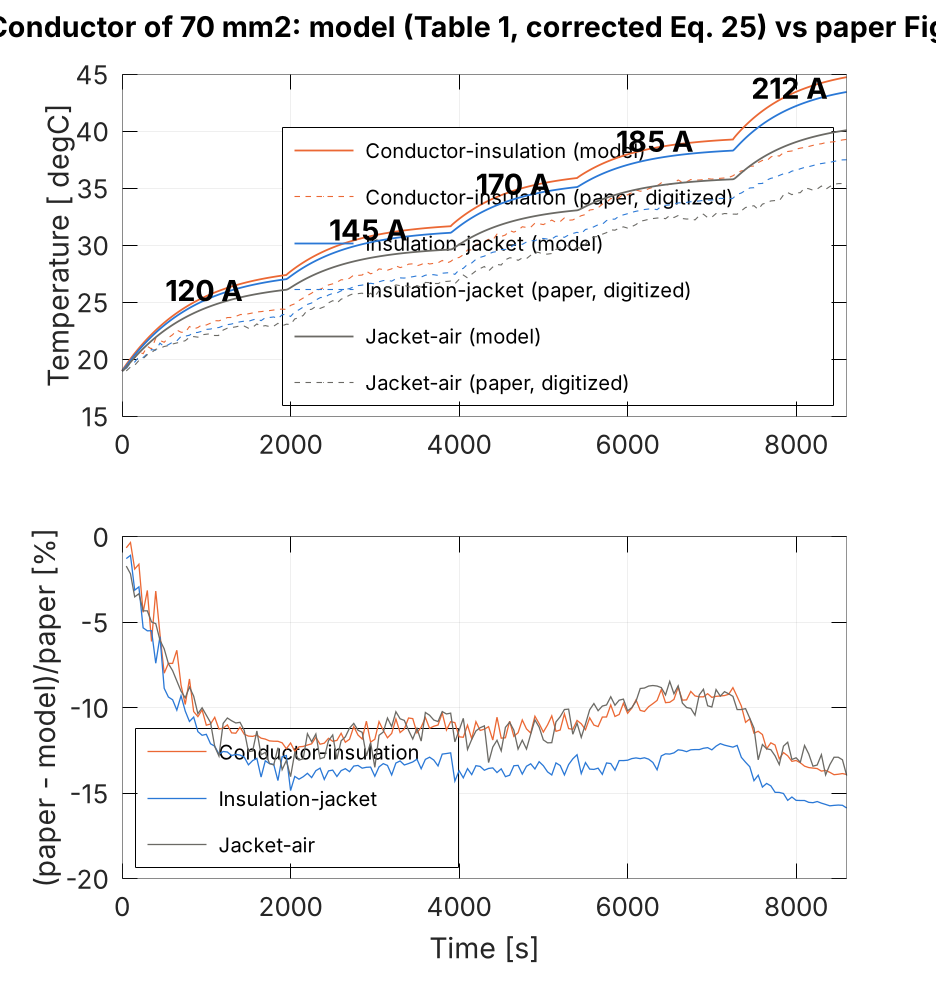
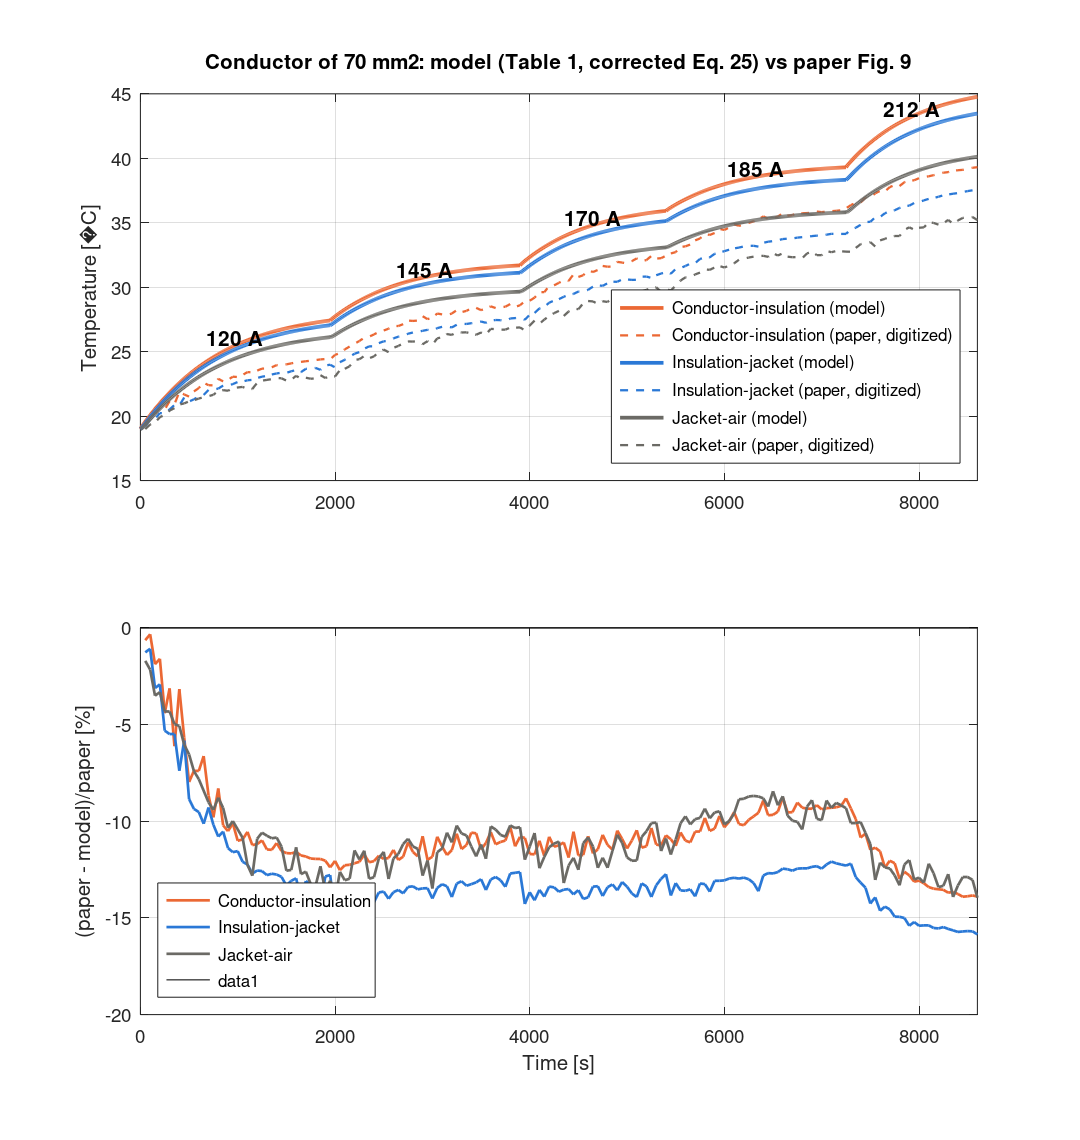
MATLAB: render figures with Octave's Qt toolkit when available
ct_figure/ct_save_fig/ct_lbl use the Qt renderer (e.g. under xvfb-run)
and fall back to gnuplot; README notes how to run headless.

Claude-Session: https://claude.ai/code/session_01NvewmNvfB2gMbfc86z3ryK

diff --git a/matlab/util/ct_save_fig.m b/matlab/util/ct_save_fig.m
@@ -1,12 +1,12 @@
 function ct_save_fig(fig, path)
-%CT_SAVE_FIG  Save a figure as PNG in MATLAB and in Octave (size taken from the figure, inches).
+%CT_SAVE_FIG  Save a figure as PNG in MATLAB and in Octave (Qt or gnuplot toolkit).
 d = fileparts(path);
 if ~isempty(d) && ~exist(d, 'dir'), mkdir(d); end
-if ct_is_octave()
+if ct_gnuplot()
     pos = get(fig, 'position');                     % inches (ct_figure)
     print(fig, '-dpngcairo', sprintf('-S%d,%d', round(130 * pos(3)), round(130 * pos(4))), path);
 else
-    print(fig, '-dpng', '-r200', path);
+    print(fig, '-dpng', '-r150', path);
 end
 close(fig);
 end

diff --git a/matlab/util/ct_figure.m b/matlab/util/ct_figure.m
@@ -1,7 +1,9 @@
 function f = ct_figure(w, h)
-%CT_FIGURE  Invisible figure of w x h inches (headless-safe).
+%CT_FIGURE  Invisible figure of w x h inches (headless-safe).  In Octave the Qt toolkit is used
+%   when available (e.g. under xvfb-run), otherwise gnuplot.
 if ct_is_octave()
-    try, graphics_toolkit('gnuplot'); catch, end %#ok<CTCH>
+    tk = available_graphics_toolkits();
+    if any(strcmp(tk, 'qt')), graphics_toolkit('qt'); else, graphics_toolkit('gnuplot'); end
 end
 f = figure('visible', 'off', 'units', 'inches', 'position', [0 0 w h], 'paperpositionmode', 'auto', 'color', 'w');
 end

diff --git a/matlab/util/ct_lbl.m b/matlab/util/ct_lbl.m
@@ -1,6 +1,6 @@
 function s = ct_lbl(s)
-%CT_LBL  Axis/legend text: the degree sign is replaced in Octave (gnuplot cannot always render it).
-if ct_is_octave()
+%CT_LBL  Axis/legend text: the degree sign is replaced when Octave plots with gnuplot.
+if ct_gnuplot()
     s = strrep(s, char(176), ' deg');
     s = strrep(s, char([194 176]), ' deg');
 end

diff --git a/matlab/util/ct_gnuplot.m b/matlab/util/ct_gnuplot.m
@@ -1,0 +1,4 @@
+function tf = ct_gnuplot()
+%CT_GNUPLOT  True when Octave plots with the gnuplot toolkit (limited font / symbol support).
+tf = ct_is_octave() && strcmp(graphics_toolkit(), 'gnuplot');
+end

diff --git a/matlab/README.md b/matlab/README.md
@@ -13,7 +13,9 @@ This folder is a self-contained MATLAB port of the Python package (`cable_therma
 * a builder for a Simulink model.
 
 Requirements: MATLAB R2016b or newer (for `jsondecode` and `strjoin`), with no toolboxes.
-GNU Octave 7 or newer also works, and all scripts were run with Octave 8.4.
+GNU Octave 7 or newer also works, and all scripts were run with Octave 8.4. For headless
+Octave, run the scripts under `xvfb-run octave --no-gui` so that the Qt renderer is used; without a
+display the code falls back to gnuplot, which renders the figures less well.
 
 ## Quick start
 
